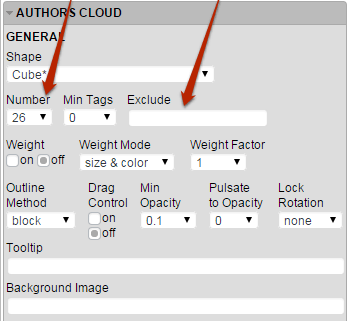
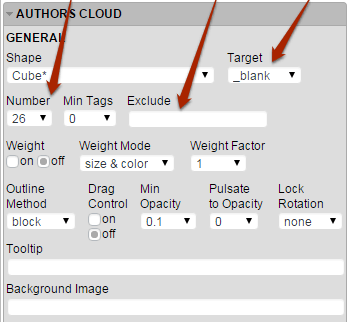
New versions: Added a Target option that determines where to open tag cloud links. Available for Authors, Blogroll, Pages and Recent Posts.
git-svn-id: https://plugins.svn.wordpress.org/3d-wp-tag-cloud-m/trunk@1208873 b8457f37-d9ea-0310-8a92-e5e31aec5664

diff --git a/help/m.user.guide.htm b/help/m.user.guide.htm
@@ -37,7 +37,7 @@
 						<span style='font-size:16pt;'>3D WP Tag Cloud-M User Guide</span>
 					</b>
 					<br>
-					<span style='font-size:14pt;'>Version 2.6</span>
+					<span style='font-size:14pt;'>Version 2.6.2</span>
 					<br>
 					<a href="https://wordpress.org/plugins/3d-wp-tag-cloud-m/" target="_blank">https://wordpress.org/plugins/3d-wp-tag-cloud-m/</a>
 				</p>
@@ -468,7 +468,7 @@
 					</i>
 				</p>
 				<p class="paragraph" style="margin-top: 40px;">
-					That&#8217;s it. In the other 7 sections is used same format of sub sectioning where each subsection contains same options. 
+					That&#8217;s it. In the other 8 sections is used same format of sub sectioning where each subsection contains same options. 
 					But in five of them (<span class='green'>Authors</span>, <span class='green'>Links</span>, <span class='green'>Menu</span>, <span class='green'>Pages</span>, 
 					<span class='green'>Recent</span> <span class='green'>Posts</span>) there is an additional subsection named <span class='green'>MIXED IMAGE & TEXT</span>, 
 					which presents one of the most exciting plugin features. Except it the differences are small. Here are all of them:
@@ -477,14 +477,14 @@
 					<span class='green'>AUTHORS CLOUD</span>
 				</p>
 				<p class="paragraph" style="margin: 20px 0 0;">
-				Options <span class='green'>Number </span>of authors & <span class='green'>Exclude</span>
+				Options <span class='green'>Number </span>of authors, <span class='green'>Exclude</span> & <span class='green'>Target</span>
 				</p>
 				<p class="paragraph" style="margin: 0;">
-					<img width="349" height="321" src="image037.png" align="left">
+					<img width="349" height="322" src="image037.png" align="left">
 				</p>
-				<p class="paragraph" style="margin: 50px 0 228px;">
+				<p class="paragraph" style="margin: 50px 0 208px;">
 					<span class='green'>Number</span> of authors sets how many names will rotate in the cloud and <span class='green'>Exclude</span> &#8211; which authors should not be there. In 
-					<span class='green'>Exclude</span> field you have to type coma-separated list of authors IDs (not names!).
+					<span class='green'>Exclude</span> field you have to type coma-separated list of authors IDs (not names!). <span class='green'>Target</span> determines where to open your tag links.
 				</p>
 				<a name="_mit"></a>
 				<p class="paragraph" style="margin: 0 0 5px;">
@@ -509,19 +509,16 @@
 				<p class="paragraph" style="margin: 0px 0 0;">
 					<span class='green'>BLOGROLL CLOUD</span>
 					<br><br>
-					Options <span class='green'>Links Category</span> and <span class='green'>Number</span>
+					Options <span class='green'>Links Category</span>, <span class='green'>Number</span> & <span class='green'>Target</span>
 				</p>
 				<p class="paragraph" style="margin-top: 0;">
-				<img width="350" height="318" src="image043.png" align="left">
+				<img width="349" height="318" src="image043.png" align="left">
 				</p>
 				<p class="paragraph" style='margin: 28px 0 20px; padding-top: 22px;'>
 					While <span class='green'>Number</span> understandably concerns links to be shown, 
-					<span class='green'>Links Category</span> specifies the category they belong to. As to 
-					<span class='green'>Image Scale </span>you know that it manipulates pictures which will be rotated in the cloud. So far plugin can animate images only if they are 
-					<span class='green'>links</span> type of content. For more details read: <span class='green'>How to create a Tag Cloud of images</span> in 
-					<span class='green'>HELP: GUIDE &amp; TIPS</span> section of the plugin, under <span class='green'>How to&#8230; Tips</span>.
+					<span class='green'>Links Category</span> specifies the category they belong to. <span class='green'>Target</span> determines where to open your tag links.
 				</p>
-				<p class="paragraph" style="margin: 170px 0 40px;">
+				<p class="paragraph" style="margin: 224px 0 40px;">
 					<i>
 						<b>N.B. </b><span class='green'>Blogroll</span> section also gives the opportunity of creating mixed image/text tags via its <span class='green'>MIXED IMAGE & TEXT</span> subsection, 
 						where images are avatar size (96x96 px), but can be reduced additionally by <span class='green'>Image Scale</span>. See <a href="#_mit">explanations</a> in <span class='green'>AUTHORS CLOUD</span> section.
@@ -585,18 +582,24 @@
 				<p class="paragraph" style="margin-top: 40px;">
 					<span class='green'>PAGES CLOUD</span>
 				</p>
-				<p class="paragraph">
-					The only specific thing here is that there are no specific options. On the top of that tags related to weighting (<span class='green'>Weight</span>, 
+				<p class="paragraph" style="margin-bottom: 0;">
+					The only specific thing here is the <span class='green'>Target</span> option determining where to open your tag links. 
+				</p>
+				<p class="paragraph" style="margin: 0;">
+					<img width="348" height="242" src="image0462.png" align="left">
+				</p>
+				<p style="text-align: justify;">
+					On the top of that tags related to weighting (<span class='green'>Weight</span>, 
 					<span class='green'>Weight Mode</span>, <span class='green'>Weight Factor</span>, <span class='green'>Weight Size Max</span>, 
 					<span class='green'>Weight Size Min</span> and the 4 <span class='green'>Gradient</span> settings) are missing like in previous section, by the same reason: Pages are not subject to weighting.
 				</p>
 				<p class="paragraph">
 					<i>
-						<b>N.B. </b><span class='green'>Pages</span> section also gives the opportunity of creating mixed image/text tags via its <span class='green'>MIXED IMAGE & TEXT</span> subsection, 
-						where images are the featured page images (thumbnail size 120x120 px), but can be resized additionally by <span class='green'>Image Scale</span>. See <a href="#_mit">explanations</a> in <span class='green'>AUTHORS CLOUD</span> section.
+						<b>N.B. </b><span class='green'>Pages</span> section also gives the opportunity of creating mixed image/text tags via its <span class='green'>MIXED IMAGE & TEXT</span> subsection. 
+						Images in it are the featured page images (thumbnail size 120x120 px), but they can be resized additionally by <span class='green'>Image Scale</span>. See <a href="#_mit">explanations</a> in <span class='green'>AUTHORS CLOUD</span> section.
 					</i>
 				</p>
-				<p class="paragraph" style="margin: 36px 0 0 0;">
+				<p class="paragraph" style="margin: 88px 0 0 0;">
 					<span class='green'>POST TAGS CLOUD</span>
 				</p>
 				<p class="paragraph" style="margin-bottom: 0;">
@@ -605,17 +608,17 @@
 				<p class="paragraph" style="margin: 0;">
 					<img width="349" height="241" src="image047.png" align="left">
 				</p>
-				<p class="paragraph" style="margin: 65px 0 217px;">
+				<p class="paragraph" style="margin: 65px 0 198px;">
 					Here <span class='green'>Number</span> is for number of tags to be shown.
 				</p>
 				<p class="paragraph">
 					<span class='green'>RECENT POSTS CLOUD</span>
 				</p>
 				<p class="paragraph" style="margin-bottom: 0;">
-					Options <span class='green'>Post Category</span> and <span class='green'>Number</span>
+					Options <span class='green'>Post Category</span>, <span class='green'>Number</span> &  <span class='green'>Target</span>
 				</p>
 				<p class="paragraph" style="margin: 0 0 0px;">
-					<img width="349" height="320" src="image049.png" align="left">
+					<img width="348" height="319" src="image049.png" align="left">
 				</p>
 				<p class="paragraph" style="margin-top: 40px;">
 					<span class='green'>Post Category</span> &#8211; the category they belong to;
@@ -624,12 +627,15 @@
 					<span class='green'>Number</span> &#8211; the posts to be rotated.
 				</p>
 				<p class="paragraph">
+					<span class='green'>Target</span> &#8211; where to open your tag links.
+				</p>
+				<p class="paragraph">
 					<i>
 						<b>N.B. </b><span class='green'>Recent Posts</span> section also gives the opportunity of creating tags that consists of the featured post image and post title via its <span class='green'>MIXED IMAGE & TEXT</span> subsection, 
 						where images are thumbnail size 120x120 px, but can be resized additionally by <span class='green'>Image Scale</span>. See <a href="#_mit">explanations</a> in <span class='green'>AUTHORS CLOUD</span> section.
 					</i>
 				</p>
-				<p class="paragraph" style='margin: 162px 0 20px;'>
+				<p class="paragraph" style='margin: 132px 0 20px;'>
 					That&#8217;s all folks. Before you go and use the plugin see below two examples of clouds made with it.
 				</p>
 			</div>

diff --git a/3D.WP.Tag.Cloud.M.php b/3D.WP.Tag.Cloud.M.php
@@ -3,7 +3,7 @@
 Plugin Name: 3D WP Tag Cloud-M
 Plugin URI: http://peter.bg/archives/7373
 Description: This is the Multiple Clouds variation of 3D WP Tag Cloud. It creates multiple instances widget that draws and animates a HTML5 canvas based tag clouds. Plugin may rotate Pages, Recent Posts, Blogroll (External Links), Menus, Blog Archives, List of Authors, Current Page/Post Links, Links from a custom HTML container, Post Tags and Post Categories. It allows showing up to 9 types of content in one widget activated from static or dynamic menu (another cloud). Supports following shapes: parabolic ANTENNA, AXES, lighthouse BEAM, BALLS, BLOSSOM, BULB, CANDY, CAPSULE, concentric CIRCLES, CROWN, CUBE, CYLINDER that starts off horizontal, CYLINDER that starts off vertical, DNA, DOMES, EGG, Christmas FIR, GLASS, GLOBE of rings, HEART, HEXAGON (bee cell), KNOT, LEMON, LOVE, PEG TOP that starts off horizontal, PEG TOP that starts off vertical, PYRAMID (tetrahedron), RING that starts off horizontal, RING that starts off vertical, RINGS knotwork, ROLLER of rings, SANDGLASS, SATURN, SPHERE, SPIRAL, SPRING, SQUARE, STAIRECASE, STOOL, TIRE, TOWER of rings and TRIANGLE. Able to rotate clouds around all three axes. Option values are preset and don't have to be typed but selected. Multiple fonts, multiple colors and multiple backgrounds can be applied to the cloud content. Full variety of fonts from Google Font Library is available. The plugin allows creating clouds of images. In case of Recent posts, Pages, Menu, List of Authors and Blogroll (External Links) tags may consist of both image and text. It gives an option to put images and/or text in the center of the cloud. It accepts background images as well. The Number of tags in the cloud is adjustable. The plugin automatically includes WP Links panel for users who started using WP since v 3.5, when Links Manager and blogroll were made hidden by default. 3D WP Tag Cloud uses Graham Breach's Javascript class TagCanvas v. 2.7 and includes most of its 80+ options in the Control Panel settings.
-Version: 2.6.1
+Version: 2.6.2
 Author: Peter Petrov
 Author URI: http://peter.bg
 Update Server: http://peter.bg/
@@ -95,7 +95,7 @@ License: LGPL v3
 						$userLName = $user->last_name;
 						$userPosts = count_user_posts($user->ID);
 						$userPostsURL = get_author_posts_url($user->ID);
-						echo '<a href="'.$userPostsURL.'" style="font-size: '.$userPosts.'px">'.$userAvatar, $userFName.'<br>'.$userLName.'<br>('.$userPosts.')</a>';
+						echo '<a href="'.$userPostsURL.'" style="font-size: '.$userPosts.'px" target="'.$auth_target.'">'.$userAvatar, $userFName.'<br>'.$userLName.'<br>('.$userPosts.')</a>';
 					};	
 					echo '</div>';
 				}
@@ -110,7 +110,7 @@ License: LGPL v3
 					$lin_args = array ('category' => $all_links_category, 'hide_invisible' => 0, 'limit' => $all_links_limit); 
 					$bookmarks = get_bookmarks($lin_args);
 					foreach( $bookmarks as $bookmark ){
-						echo '<a href="' . $bookmark->link_url . '">';
+						echo '<a href="' . $bookmark->link_url . '" target="'.$lin_target.'">';
 						if ($bookmark->link_image) { echo '<img src="' .$bookmark->link_image . '" width="96" height="96">';}
 						echo  $bookmark->link_name . '</a>';
 					}
@@ -126,7 +126,7 @@ License: LGPL v3
 					echo '<div id="all_pages_container_' . $inst_id . '" class="excludediv" hidden>';
 					$page_args = array ('number' => $pages_limit); $pages = get_pages($page_args);
 					foreach( $pages as $page ){
-						echo '<a href="' . get_page_link( $page->ID ) . '">' . get_the_post_thumbnail( $page->ID, 'thumbnail' ), $page->post_title . '</a>';
+						echo '<a href="' . get_page_link( $page->ID ) . '" target="'.$pag_target.'">' . get_the_post_thumbnail( $page->ID, 'thumbnail' ), $page->post_title . '</a>';
 					}
 					echo '</div>';
 				}
@@ -147,8 +147,8 @@ License: LGPL v3
 						$recent_posts = wp_get_recent_posts($rp_args); 
 						foreach( $recent_posts as $recent ){
 							$count=$count+1; $font_size=round($bigest-$increment*$count); 
-							if($weight_mode != "none") { echo '<a href="' . get_permalink($recent["ID"]) . '" style="font-size: ' . $font_size . 'px;" title="Look '.esc_attr($recent["post_title"]).'" >' . get_the_post_thumbnail( $recent["ID"], 'thumbnail' ), $recent["post_title"].'</a> ';}	
-							else {echo '<a href="' . get_permalink($recent["ID"]) . '">' . get_the_post_thumbnail( $recent["ID"], 'thumbnail' ), $recent["post_title"].'</a> ';};
+							if($weight_mode != "none") { echo '<a href="' . get_permalink($recent["ID"]) . '" style="font-size: ' . $font_size . 'px;" title="Look '.esc_attr($recent["post_title"]).'" target="'.$rec_target.'">' . get_the_post_thumbnail( $recent["ID"], 'thumbnail' ), $recent["post_title"].'</a> ';}	
+							else {echo '<a href="' . get_permalink($recent["ID"]) . '" target="'.$rec_target.'">' . get_the_post_thumbnail( $recent["ID"], 'thumbnail' ), $recent["post_title"].'</a> ';};
 						};
 					echo '</div>';
 				}
@@ -367,6 +367,7 @@ License: LGPL v3
 		$tag_option['auth_shadowoff_y'] = $new_instance['auth_shadowoff_y'];
 		$tag_option['auth_shape'] = $new_instance['auth_shape'];
 		$tag_option['auth_split_width'] = $new_instance['auth_split_width'];
+		$tag_option['auth_target'] = $new_instance['auth_target'];
 		$tag_option['auth_text_align'] = $new_instance['auth_text_align'];
 		$tag_option['auth_text_color'] = $new_instance['auth_text_color'];
 		$tag_option['auth_text_font'] = $new_instance['auth_text_font'];
@@ -463,6 +464,7 @@ License: LGPL v3
 		$tag_option['lin_shadowoff_y'] = $new_instance['lin_shadowoff_y'];
 		$tag_option['lin_shape'] = $new_instance['lin_shape'];
 		$tag_option['lin_split_width'] = $new_instance['lin_split_width'];
+		$tag_option['lin_target'] = $new_instance['lin_target'];
 		$tag_option['lin_text_align'] = $new_instance['lin_text_align'];
 		$tag_option['lin_text_color'] = $new_instance['lin_text_color'];
 		$tag_option['lin_text_font'] = $new_instance['lin_text_font'];
@@ -556,6 +558,7 @@ License: LGPL v3
 		$tag_option['pag_shadowoff_y'] = $new_instance['pag_shadowoff_y'];
 		$tag_option['pag_shape'] = $new_instance['pag_shape'];
 		$tag_option['pag_split_width'] = $new_instance['pag_split_width'];
+		$tag_option['pag_target'] = $new_instance['pag_target'];
 		$tag_option['pag_text_align'] = $new_instance['pag_text_align'];
 		$tag_option['pag_text_color'] = $new_instance['pag_text_color'];
 		$tag_option['pag_text_font'] = $new_instance['pag_text_font'];
@@ -642,6 +645,7 @@ License: LGPL v3
 		$tag_option['rec_shadowoff_y'] = $new_instance['rec_shadowoff_y'];
 		$tag_option['rec_shape'] = $new_instance['rec_shape'];
 		$tag_option['rec_split_width'] = $new_instance['rec_split_width'];
+		$tag_option['rec_target'] = $new_instance['rec_target'];
 		$tag_option['rec_text_align'] = $new_instance['rec_text_align'];
 		$tag_option['rec_text_color'] = $new_instance['rec_text_color'];
 		$tag_option['rec_text_font'] = $new_instance['rec_text_font'];
@@ -851,6 +855,7 @@ License: LGPL v3
 			'auth_shadowoff_y' => '0',
 			'auth_shape' => 'cube',
 			'auth_split_width' => '100',
+			'auth_target' => '_self',
 			'auth_text_align' => 'centre',
 			'auth_text_color' => '000',
 			'auth_text_font' => 'Arial',
@@ -947,6 +952,7 @@ License: LGPL v3
 			'lin_shadowoff_y' => '0',
 			'lin_shape' => 'cube',
 			'lin_split_width' => '100',
+			'lin_target' => '_self',
 			'lin_text_align' => 'centre',
 			'lin_text_color' => '000',
 			'lin_text_font' => 'Arial',
@@ -1040,6 +1046,7 @@ License: LGPL v3
 			'pag_shadowoff_y' => '0',
 			'pag_shape' => 'cube',
 			'pag_split_width' => '100',
+			'pag_target' => '_self',
 			'pag_text_align' => 'centre',
 			'pag_text_color' => '000',
 			'pag_text_font' => 'Arial',
@@ -1126,6 +1133,7 @@ License: LGPL v3
 			'rec_shadowoff_y' => '0',
 			'rec_shape' => 'cube',
 			'rec_split_width' => '100',
+			'rec_target' => '_self',
 			'rec_text_align' => 'centre',
 			'rec_text_color' => '000',
 			'rec_text_font' => 'Arial',

diff --git a/templates/Links.template.php b/templates/Links.template.php
@@ -7,7 +7,7 @@
 		<div style="float: left;">
 			<span style="padding-bottom: 5px;">GENERAL</span>
 			<div style="padding-top: 5px;">
-				<label style="margin: 0 12px 0 0;" title="Cloud shapes Legend:<br><span class='color' style='padding: 0; border: 1px solid #444; 
+				<label style="margin: 0;" title="Cloud shapes Legend:<br><span class='color' style='padding: 0; border: 1px solid #444; 
 					font-size: 10px; color: #fff;'>██</span> 3D Shape, <span class='color' style='padding: 0; border: 1px solid #444; font-size: 10px; 
 					color: #ccc;'>██</span> 2D Shape, <span class='color' style='padding: 0; border: 1px solid #444; font-size: 10px; color: #aaa;'>██</span> 
 					1D Shape, <b style='font-size: 26px; line-height: 5px; position: relative; top: 10px;'>*</b> Specific set of tag numbers in 
@@ -61,6 +61,16 @@
 						<option style="background: #aaa;" value="beam" <?php if( $lin_shape == "beam" ){ echo ' selected'; } ?>>Lighthouse Beam</option>
 					</select>
 				</label>
+				<div style="float: left; margin: 0 0 0 12px;" title="The target option specifies where to open <span class='green'>Authors</span>, <span class='green'>Blogroll</span>, <span class='green'>Pages</span> and <span class='green'>Recent Posts</span> tag links:<br><br><span class='green'>_blank</span> - in a new window or tab;<br><span class='green'>_parent</span> - in the parent frame;<br><span class='green'>_self</span> - in the same frame as it was clicked (default);<br><span class='green'>_top</span> - in the full body of the window.">
+					Target
+					<br>
+					<select id="<?=$this->get_field_id('lin_target'); ?>" name="<?=$this->get_field_name('lin_target'); ?>">
+						<option value="_blank" <?php if( $lin_target == "_blank" ){ echo ' selected'; } ?>>_blank</option>
+						<option value="_parent" <?php if( $lin_target == "_parent" ){ echo ' selected'; } ?>>_parent</option>
+						<option value="_self" <?php if( $lin_target == "_self" ){ echo ' selected'; } ?>>_self</option>
+						<option value="_top" <?php if( $lin_target == "_top" ){ echo ' selected'; } ?>>_top</option>
+					</select>
+				</div>
 				<div class="thick-spacer"></div>
 				<label style="max-width: 175px; margin: 0 12px 0 0;" title="Links Category to be displayed." for="<?=$this->get_field_id('all_links_category'); ?>">
 				Links Category 

diff --git a/templates/Authors.template.php b/templates/Authors.template.php
@@ -7,7 +7,7 @@
 		<div style="float: left;">
 			<span style="padding-bottom: 5px;">GENERAL</span>
 			<div style="padding-top: 5px;">
-				<label style="margin: 0 3px 0 0;" title="Cloud shapes Legend:<br><span class='color' style='padding: 0; border: 1px solid #444; 
+				<label style="margin: 0;" title="Cloud shapes Legend:<br><span class='color' style='padding: 0; border: 1px solid #444; 
 					font-size: 10px; color: #fff;'>██</span> 3D Shape, <span class='color' style='padding: 0; border: 1px solid #444; font-size: 10px; 
 					color: #ccc;'>██</span> 2D Shape, <span class='color' style='padding: 0; border: 1px solid #444; font-size: 10px; color: #aaa;'>██</span> 
 					1D Shape, <b style='font-size: 26px; line-height: 5px; position: relative; top: 10px;'>*</b> Specific set of tag numbers in 
@@ -61,6 +61,16 @@
 						<option style="background: #aaa;" value="beam" <?php if( $auth_shape == "beam" ){ echo ' selected'; } ?>>Lighthouse Beam</option>
 					</select>
 				</label>
+				<div style="float: left; margin: 0 0 0 12px;" title="The target option specifies where to open tag links:<br><br><span class='green'>_blank</span> - in a new window or tab;<br><span class='green'>_parent</span> - in the parent frame;<br><span class='green'>_self</span> - in the same frame as it was clicked (default);<br><span class='green'>_top</span> - in the full body of the window.">
+					Target
+					<br>
+					<select id="<?=$this->get_field_id('auth_target'); ?>" name="<?=$this->get_field_name('auth_target'); ?>">
+						<option value="_blank" <?php if( $auth_target == "_blank" ){ echo ' selected'; } ?>>_blank</option>
+						<option value="_parent" <?php if( $auth_target == "_parent" ){ echo ' selected'; } ?>>_parent</option>
+						<option value="_self" <?php if( $auth_target == "_self" ){ echo ' selected'; } ?>>_self</option>
+						<option value="_top" <?php if( $auth_target == "_top" ){ echo ' selected'; } ?>>_top</option>
+					</select>
+				</div>
 				<div class="thick-spacer"></div>
 				<label style="margin: 0 10px 0 0;" title="Number of authors to display" for="<?=$this->get_field_id('all_authors_limit'); ?>">
 					Number 

diff --git a/templates/Pages.template.php b/templates/Pages.template.php
@@ -195,7 +195,18 @@
 						<option value="none" <?php if( $pag_lock == "none" ){ echo ' selected'; } ?>>none</option>
 					</select>
 				</label>
-				<label style="width: 100%;" for="<?=$this->get_field_id('pag_tooltip'); ?>" title="Sets your canvas tooltip. For instance if the cloud allows <span class='green'>Drag Control</span> you can suggest your site visitors to 'Drag or Click'.">
+				<div class="thick-spacer"></div>
+				<div style="float: left; margin: 0;" title="The target option specifies where to open tag links:<br><br><span class='green'>_blank</span> - in a new window or tab;<br><span class='green'>_parent</span> - in the parent frame;<br><span class='green'>_self</span> - in the same frame as it was clicked (default);<br><span class='green'>_top</span> - in the full body of the window.">
+					Target
+					<br>
+					<select id="<?=$this->get_field_id('pag_target'); ?>" name="<?=$this->get_field_name('pag_target'); ?>">
+						<option value="_blank" <?php if( $pag_target == "_blank" ){ echo ' selected'; } ?>>_blank</option>
+						<option value="_parent" <?php if( $pag_target == "_parent" ){ echo ' selected'; } ?>>_parent</option>
+						<option value="_self" <?php if( $pag_target == "_self" ){ echo ' selected'; } ?>>_self</option>
+						<option value="_top" <?php if( $pag_target == "_top" ){ echo ' selected'; } ?>>_top</option>
+					</select>
+				</div>
+				<label style="margin: 0 0 0 12px; width: 251px;" for="<?=$this->get_field_id('pag_tooltip'); ?>" title="Sets your canvas tooltip. For instance if the cloud allows <span class='green'>Drag Control</span> you can suggest your site visitors to 'Drag or Click'.">
 				Tooltip
 				<div>
 					<input style="width: 100%;" id="<?=$this->get_field_id('pag_tooltip'); ?>"

diff --git a/templates/Recent.Posts.template.php b/templates/Recent.Posts.template.php
@@ -61,6 +61,16 @@
 						<option style="background: #aaa;" value="beam" <?php if( $rec_shape == "beam" ){ echo ' selected'; } ?>>Lighthouse Beam</option>
 					</select>
 				</label>
+				<div style="float: left; margin: 0 0 0 12px;" title="The target option specifies where to open <span class='green'>Authors</span>, <span class='green'>Blogroll</span>, <span class='green'>Pages</span> and <span class='green'>Recent Posts</span> tag links:<br><br><span class='green'>_blank</span> - in a new window or tab;<br><span class='green'>_parent</span> - in the parent frame;<br><span class='green'>_self</span> - in the same frame as it was clicked (default);<br><span class='green'>_top</span> - in the full body of the window.">
+					Target
+					<br>
+					<select id="<?=$this->get_field_id('rec_target'); ?>" name="<?=$this->get_field_name('rec_target'); ?>">
+						<option value="_blank" <?php if( $rec_target == "_blank" ){ echo ' selected'; } ?>>_blank</option>
+						<option value="_parent" <?php if( $rec_target == "_parent" ){ echo ' selected'; } ?>>_parent</option>
+						<option value="_self" <?php if( $rec_target == "_self" ){ echo ' selected'; } ?>>_self</option>
+						<option value="_top" <?php if( $rec_target == "_top" ){ echo ' selected'; } ?>>_top</option>
+					</select>
+				</div>
 				<div class="thick-spacer"></div>
 				<label style="max-width: 175px; margin: 0 12px 0 0;" title="Post Category to be displayed" for="<?=$this->get_field_id('all_recent_posts_category'); ?>">
 					Post Category

diff --git a/m.variables.php b/m.variables.php
@@ -139,6 +139,7 @@
 	$auth_shadowoff_y = $instance['auth_shadowoff_y'];
 	$auth_shape = $instance['auth_shape'];
 	$auth_split_width = $instance['auth_split_width'];
+	$auth_target = $instance['auth_target'];
 	$auth_text_align = $instance['auth_text_align'];
 	$auth_text_color = $instance['auth_text_color'];
 	$auth_text_font = $instance['auth_text_font'];
@@ -234,6 +235,7 @@
 	$lin_shadowoff_y = $instance['lin_shadowoff_y'];
 	$lin_shape = $instance['lin_shape'];
 	$lin_split_width = $instance['lin_split_width'];
+	$lin_target = $instance['lin_target'];
 	$lin_text_align = $instance['lin_text_align'];
 	$lin_text_color = $instance['lin_text_color'];
 	$lin_text_font = $instance['lin_text_font'];
@@ -327,6 +329,7 @@
 	$pag_shadowoff_y = $instance['pag_shadowoff_y'];
 	$pag_shape = $instance['pag_shape'];
 	$pag_split_width = $instance['pag_split_width'];
+	$pag_target = $instance['pag_target'];
 	$pag_text_align = $instance['pag_text_align'];
 	$pag_text_color = $instance['pag_text_color'];
 	$pag_text_font = $instance['pag_text_font'];
@@ -413,6 +416,7 @@
 	$rec_shadowoff_y = $instance['rec_shadowoff_y'];
 	$rec_shape = $instance['rec_shape'];
 	$rec_split_width = $instance['rec_split_width'];
+	$rec_target = $instance['rec_target'];
 	$rec_text_align = $instance['rec_text_align'];
 	$rec_text_color = $instance['rec_text_color'];
 	$rec_text_font = $instance['rec_text_font'];
